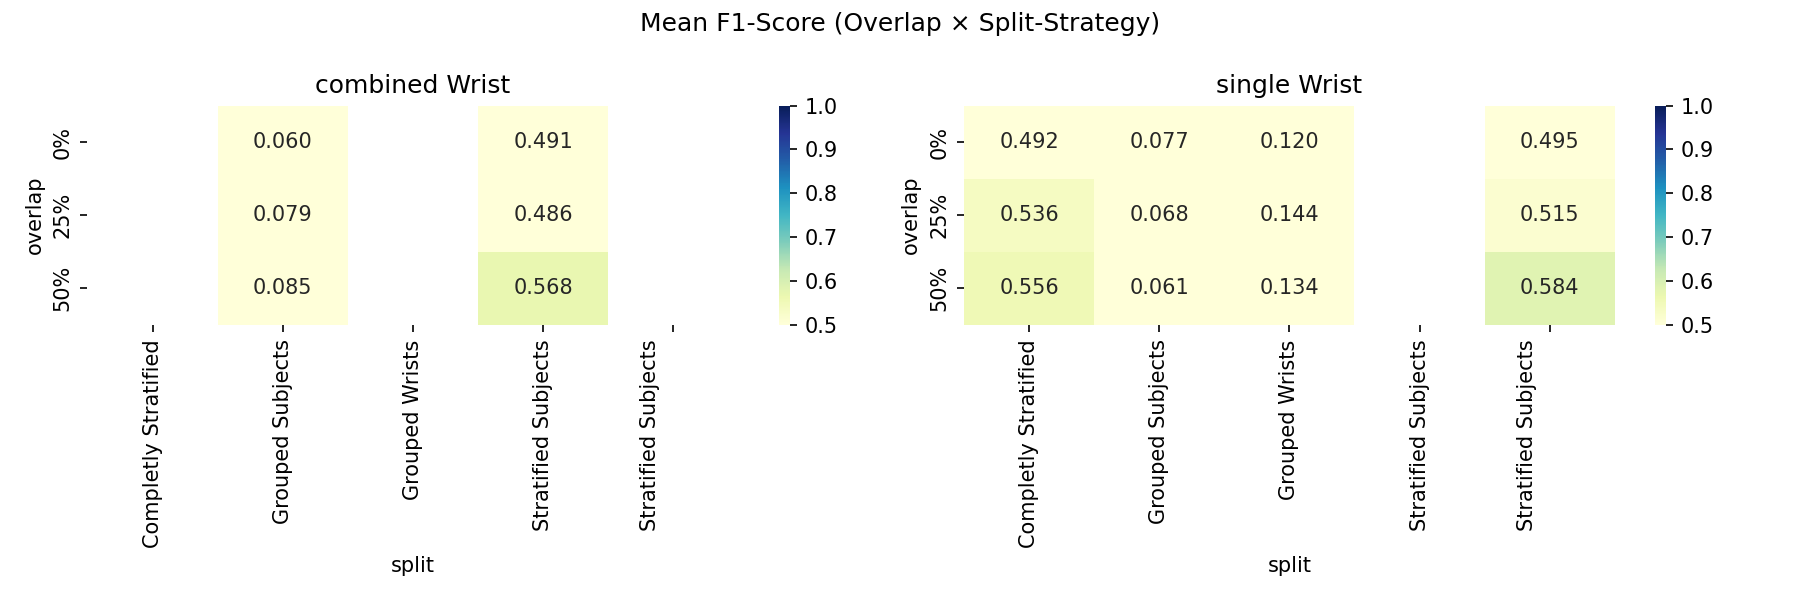
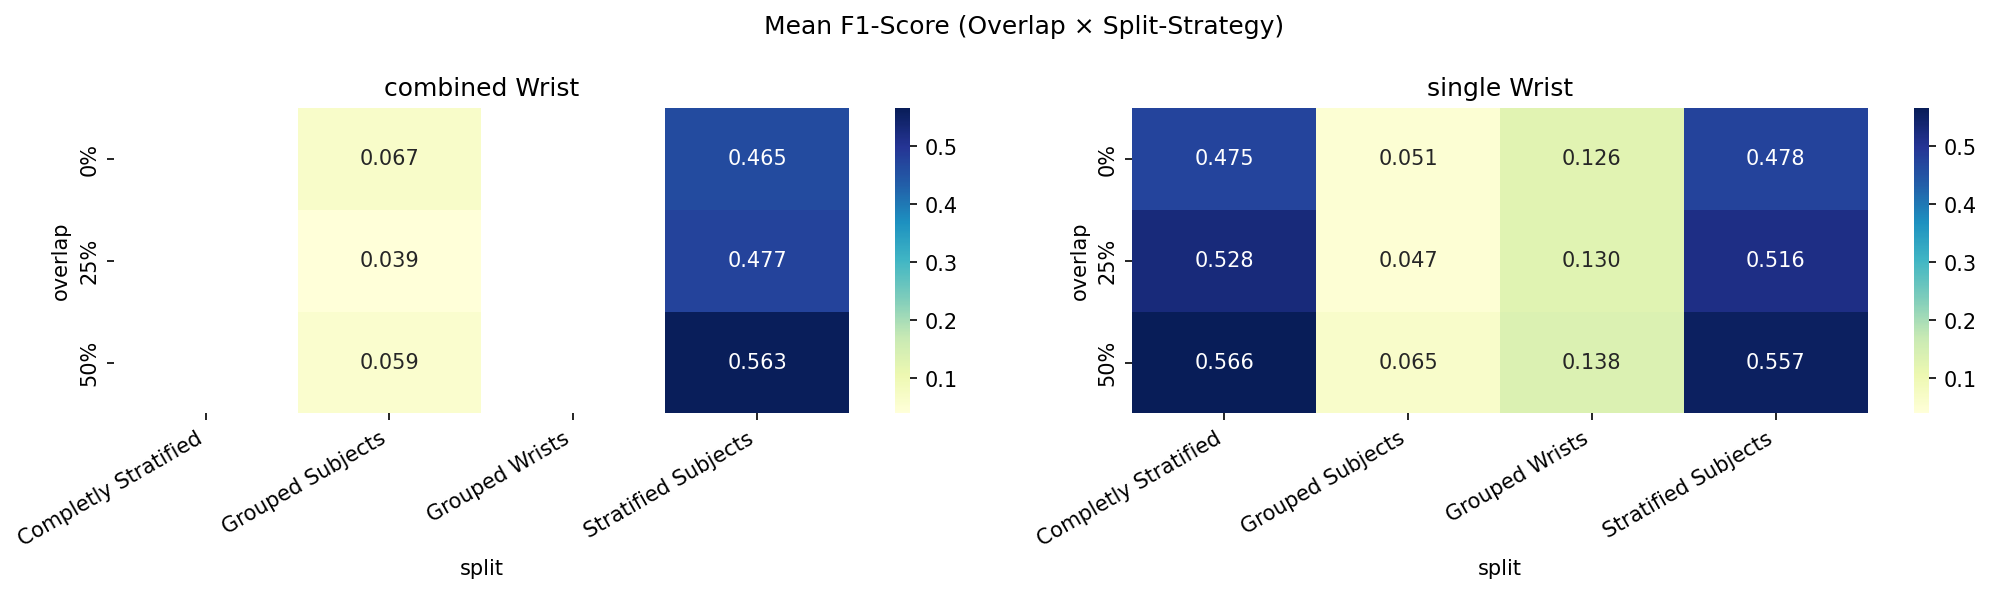
somewhat better

diff --git a/src/model/crossvalidation.py b/src/model/crossvalidation.py
@@ -67,85 +67,143 @@ def train_on_split(Xtr, ytr, Xte, yte, classes, Xval=None, yval=None):
     # use same validation data for restored best weights
     probs = model.predict(Xte, verbose=0)
     yp = probs.argmax(axis=1)
-    cm = confusion_matrix(yte, yp)
+    cm_raw = confusion_matrix(yte, yp)
+    cm_norm = cm_raw / cm_raw.sum(axis=1, keepdims=True)
     
     return {
         "acc": accuracy_score(yte, yp),
         "f1": f1_score(yte, yp, average="weighted", zero_division=0),
-        "cm": (cm / cm.sum(axis=1, keepdims=True))
+        "cm": cm_norm,
+        "cm_raw": cm_raw,
     }
 
 
 def visualize(results: pd.DataFrame, classes):
-    # Overlap comparison for each strategy
     output_path = os.path.join(os.getcwd(), "out")
-    if not os.path.exists(output_path):
-        os.mkdir(output_path)
+    os.makedirs(output_path, exist_ok=True)
     output_path = os.path.join(output_path, "crossvalidition")
-    if not os.path.exists(output_path):
-        os.mkdir(output_path)
-        
-    fig, axes = plt.subplots(1, 2, figsize=(14, 5), sharey=True)
+    os.makedirs(output_path, exist_ok=True)
+
+    # Strip whitespace/newlines from split labels that came from print-titles
+    results = results.copy()
+    results["split"] = results["split"].str.strip()
+
+    # Overlap vs Split
+    fig, axes = plt.subplots(1, 2, figsize=(16, 5), sharey=True)
     for ax, sensor in zip(axes.flat, ["single", "combined"]):
         sns.boxplot(
             data=results[results["sensor"] == sensor],
-            x="split", y="f1", hue="overlap", 
-            ax=ax,
-            palette="bright"
+            x="split", y="f1", hue="overlap",
+            ax=ax, palette="bright"
         )
         ax.set_title(f"{sensor} Wrist – F1 per Split-Strategy & Overlap")
-        ax.set_xlabel("Split")
+        ax.set_xlabel("Split Strategy")
         ax.set_ylabel("F1")
-        ax.tick_params(axis='x', rotation=20)
+        ax.tick_params(axis='x', rotation=30)
+        for label in ax.get_xticklabels():
+            label.set_ha('right')
     plt.tight_layout()
-    plt.savefig(os.path.join(output_path, "overlap_vs_split.png"), dpi=150)
+    plt.savefig(os.path.join(output_path, "overlap_vs_split.png"), dpi=150, bbox_inches='tight')
+    plt.close()
 
     # Single vs. Combined
-    fig, axes = plt.subplots(1, max(2, len(results["overlap"].unique())), figsize=(15, 5), sharey=True)
-    for ax, overlap in zip(axes.flat, results["overlap"].unique()):
+    # Align both sensors on same x-axis (all split strategies), combined leaves NaN gaps
+    overlaps = results["overlap"].unique()
+    all_splits = sorted(results["split"].unique())
+    n_overlaps = len(overlaps)
+    fig, axes = plt.subplots(1, n_overlaps, figsize=(7 * n_overlaps, 5), sharey=True)
+    if n_overlaps == 1:
+        axes = [axes]
+    for ax, overlap in zip(axes, overlaps):
         sns.boxplot(
             data=results[results["overlap"] == overlap],
             x="split", y="f1", hue="sensor",
-            ax=ax
+            order=all_splits, ax=ax
         )
         ax.set_title(f"Overlap: {overlap}")
-        ax.tick_params(axis='x', rotation=20)
-    plt.suptitle("Single vs. Combined Wrist – F1 Score", y=1.02)
+        ax.set_xlabel("")
+        ax.tick_params(axis='x', rotation=30)
+        for label in ax.get_xticklabels():
+            label.set_ha('right')
+    # Single shared x-axis label
+    fig.text(0.5, -0.04, "Split Strategy", ha='center', va='center', fontsize=11)
+    fig.suptitle("Single vs. Combined Wrist – F1 Score")
     plt.tight_layout()
-    plt.savefig(os.path.join(output_path, "single_vs_combined.png"), dpi=150)
+    plt.savefig(os.path.join(output_path, "single_vs_combined.png"), dpi=150, bbox_inches='tight')
+    plt.close()
 
-    # Heatmap der mittleren F1-Scores (Übersicht) 
+    # Heatmap – shared color scale for fair comparison 
     pivot = results.groupby(["sensor", "overlap", "split"])["f1"].mean().unstack("split")
-    fig, axes = plt.subplots(1, 2, figsize=(12, 4))
+    vmin_h = pivot.min().min()
+    vmax_h = pivot.max().max()
+    fig, axes = plt.subplots(1, 2, figsize=(14, 4))
     for ax, (sensor, group) in zip(axes.flat, pivot.groupby(level="sensor")):
-        sns.heatmap(group.droplevel("sensor"), annot=True, fmt=".3f",
-                    cmap="YlGnBu", ax=ax, vmin=0.5, vmax=1.0)
+        sns.heatmap(
+            group.droplevel("sensor"), annot=True, fmt=".3f",
+            cmap="YlGnBu", ax=ax, vmin=vmin_h, vmax=vmax_h
+        )
         ax.set_title(f"{sensor} Wrist")
+        ax.tick_params(axis='x', rotation=30)
+        for label in ax.get_xticklabels():
+            label.set_ha('right')
     plt.suptitle("Mean F1-Score (Overlap × Split-Strategy)")
     plt.tight_layout()
-    plt.savefig(os.path.join(output_path, "heatmap_overview.png"), dpi=150)
-    
-    # Confusion Matrices – mean over folds per configuration
-    confusion_matrices = {}
-    for name, group in results.groupby(["sensor", "overlap", "split"]):
-        cms = np.array([row["cm"] for _, row in group.iterrows()])
-        confusion_matrices[name] = cms.mean(axis=0)
-    
-    configs = results.groupby(["sensor", "overlap", "split"])
-    ncols = len(results["split"].unique())
-    nrows = len(results["sensor"].unique()) * len(results["overlap"].unique())
+    plt.savefig(os.path.join(output_path, "heatmap_overview.png"), dpi=150, bbox_inches='tight')
+    plt.close()
 
-    fig, axes = plt.subplots(nrows, ncols, figsize=(ncols * 4, nrows * 3.5), sharey=True)
-    for ax, (name, _) in zip(axes.flat, configs):
-        sns.heatmap(confusion_matrices[name], annot=True, fmt=".2f", cmap="Blues", ax=ax,
-                    xticklabels=classes, yticklabels=classes, vmin=0, vmax=1)
-        ax.set_title(f"{name[0]} | {name[1]} | {name[2]}", fontsize=8)
-        ax.set_xlabel("Predicted")
-        ax.set_ylabel("True")
-        ax.tick_params(axis='x', rotation=20)
-    plt.suptitle("Confusion Matrices – Mean over Folds")
-    plt.tight_layout()
-    plt.savefig(os.path.join(output_path, "confusion_matrices.png"), dpi=150)
+    # Confusion Matrices
+    # Build mean normalized and summed absolute CMs per configuration
+    cm_norm_mean = {}
+    cm_abs_sum = {}
+    for name, group in results.groupby(["sensor", "overlap", "split"]):
+        cm_norm_mean[name] = np.array([row["cm"] for _, row in group.iterrows()]).mean(axis=0)
+        cm_abs_sum[name] = np.array([row["cm_raw"] for _, row in group.iterrows()]).sum(axis=0)
+
+    sensors_u = list(results["sensor"].unique())
+    overlaps_u = list(results["overlap"].unique())
+    splits_u = sorted(results["split"].unique())
+    row_keys = [(s, o) for s in sensors_u for o in overlaps_u]
+    nrows = len(row_keys)
+    ncols = len(splits_u)
+
+    def _draw_cm_figure(cm_dict, fmt, title_suffix, filename, vmin=None, vmax=None):
+        cell_size = max(3.0, 22 / ncols)
+        fig, axes = plt.subplots(nrows, ncols,
+                                 figsize=(ncols * cell_size, nrows * cell_size * 0.95))
+        axes = np.array(axes).reshape(nrows, ncols)
+        for ax in axes.flat:
+            ax.set_visible(False)
+        
+        # Dynamic shared color scale
+        all_vals = np.concatenate([m.flatten() for m in cm_dict.values()])
+        _vmin = all_vals.min() if vmin is None else vmin
+        _vmax = all_vals.max() if vmax is None else vmax
+
+        for (sensor, overlap, split), cm in cm_dict.items():
+            row_idx = row_keys.index((sensor, overlap))
+            col_idx = splits_u.index(split)
+            ax = axes[row_idx, col_idx]
+            ax.set_visible(True)
+            sns.heatmap(cm, annot=True, fmt=fmt, cmap="Blues", ax=ax,
+                        xticklabels=classes, yticklabels=classes,
+                        vmin=_vmin, vmax=_vmax, cbar=False)
+            ax.set_title(f"{sensor} | {overlap} | {split}", fontsize=7, pad=3)
+            ax.set_xlabel("Predicted", fontsize=7)
+            ax.set_ylabel("True", fontsize=7)
+            ax.tick_params(axis='x', rotation=30, labelsize=6)
+            ax.tick_params(axis='y', rotation=0, labelsize=6)
+            for lbl in ax.get_xticklabels():
+                lbl.set_ha('right')
+
+        plt.suptitle(f"Confusion Matrices – {title_suffix}", y=1.01)
+        plt.tight_layout()
+        plt.savefig(os.path.join(output_path, filename), dpi=150, bbox_inches='tight')
+        plt.close()
+
+    _draw_cm_figure(cm_norm_mean, ".1f", "Mean normalized (avg over folds)",
+                    "confusion_matrices_normalized.png", vmin=0, vmax=1)
+    _draw_cm_figure(cm_abs_sum,   "d",   "Absolute sample counts (summed over folds)",
+                    "confusion_matrices_absolute.png")
 
 def main():
     sess_to_activity = default_session_to_activity()
@@ -193,7 +251,8 @@ def main():
                     "fold": i,
                     "acc": result["acc"],
                     "f1": result["f1"],
-                    "cm": result["cm"].tolist()
+                    "cm": result["cm"].tolist(),
+                    "cm_raw": result["cm_raw"].tolist(),
                 })
         
     print(f"\n{"-" * 50}\n")
@@ -222,7 +281,8 @@ def main():
                     "fold": i,
                     "acc": result["acc"],
                     "f1": result["f1"],
-                    "cm": result["cm"].tolist()
+                    "cm": result["cm"].tolist(),
+                    "cm_raw": result["cm_raw"].tolist(),
                 })
                 
     results = pd.DataFrame(results)
